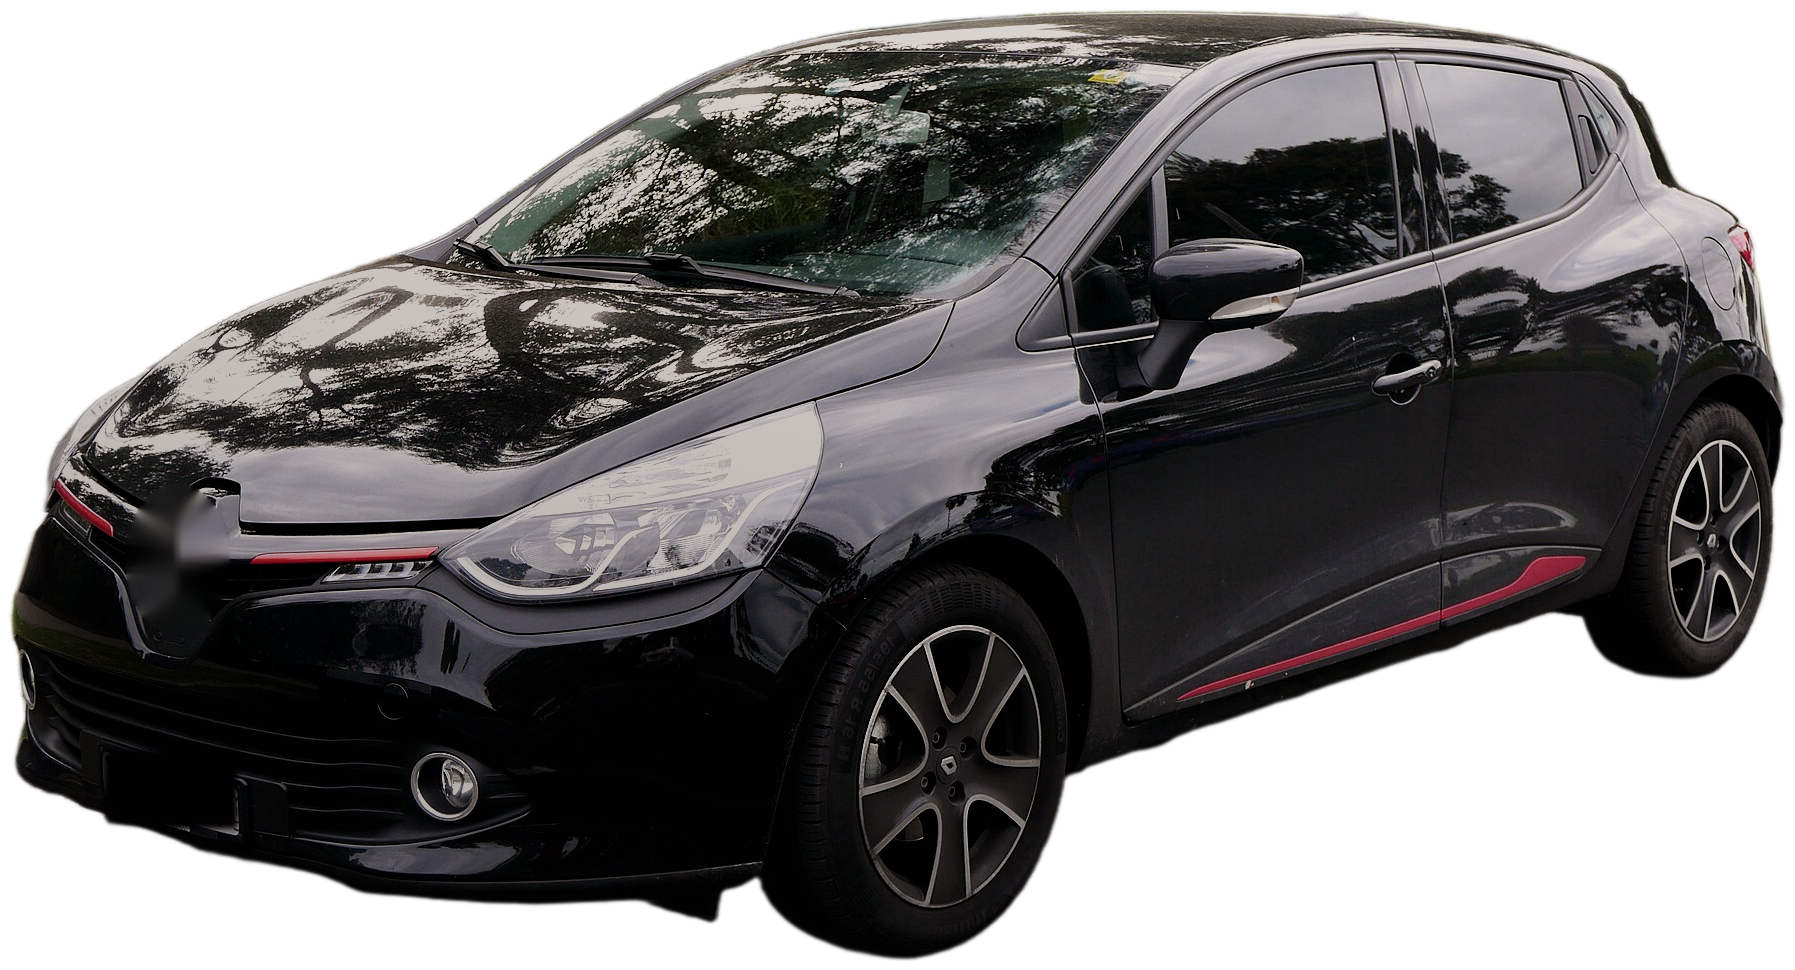
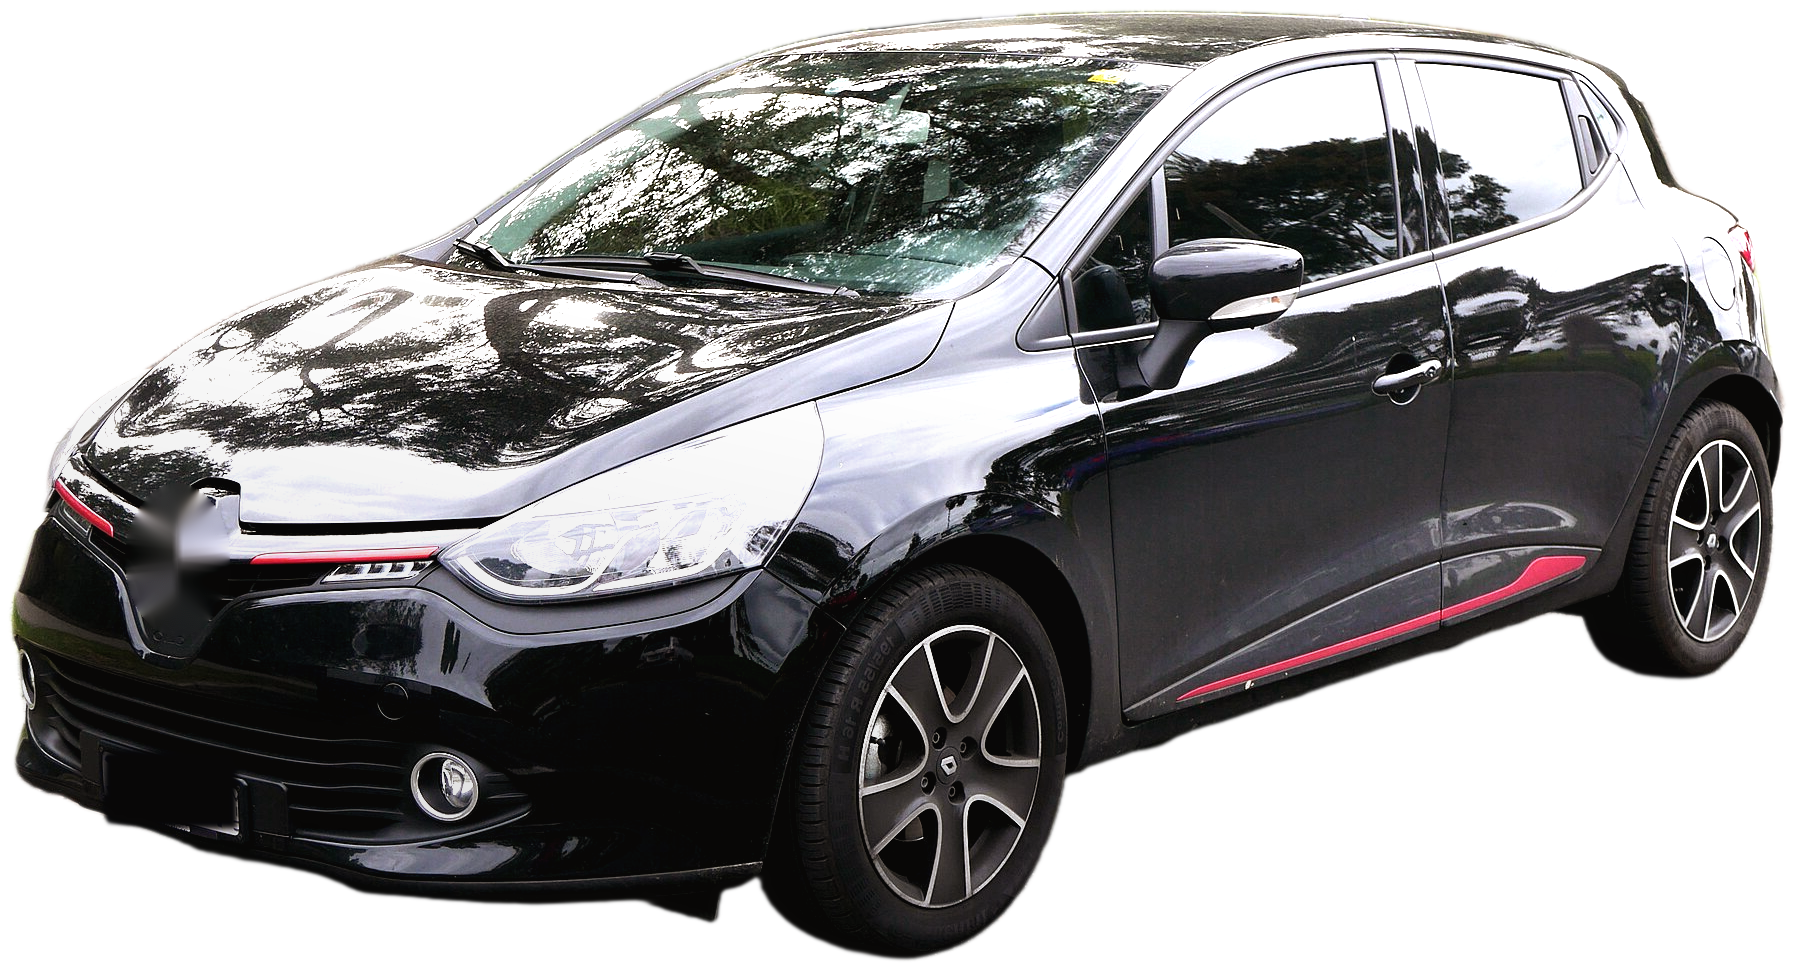
MO8 étape 2 : timeline seconde par seconde, sources vérifiées (distribution par moteur, extension PureTech), images tests n° 4 et n° 2
Claude-Session: https://claude.ai/code/session_01FEy7LKaW7Hm3ZRZRRVomsp

diff --git a/video/film-mo8/da.html b/video/film-mo8/da.html
@@ -125,6 +125,28 @@ html,body{width:1080px;height:1920px;overflow:hidden;background:var(--bg0)}
   </div>
 </section>
 
+<!-- 7 · N° 4 (≈ 9 s) : le piston fissuré -->
+<section class="scene" data-s="7">
+  <div class="no" style="left:286px">N°</div>
+  <div class="flap glass"><span>4</span><i></i></div>
+  <svg class="leads"></svg>
+  <div class="pill glass" data-to="a0" style="left:600px;top:560px"><span class="k">piston</span><span class="v serif">fissuré</span></div>
+  <div class="strip" data-ph="golf" style="top:1110px;height:190px;background-size:cover"><div class="t"><div class="m ext">Golf 6 · 1.4 TSI</div><div class="e">122 · 160 CH · 2008 – 2012</div></div></div>
+  <div class="cost"><span class="j">jusqu'à</span><span class="n ext lit">7 000 €</span></div>
+  <div class="mention">Coûts : ordres de grandeur relevés · presse spécialisée et propriétaires</div>
+</section>
+
+<!-- 8 · N° 2 (≈ 17 s) : la jauge sous le MIN -->
+<section class="scene" data-s="8">
+  <div class="no" style="left:286px">N°</div>
+  <div class="flap glass"><span>2</span><i></i></div>
+  <svg class="leads"></svg>
+  <div class="pill glass" data-to="a0" style="left:520px;top:560px"><span class="k">il boit</span><span class="v serif">son huile</span></div>
+  <div class="strip" data-ph="clio" style="top:1110px;height:190px;background-size:cover"><div class="t"><div class="m ext">Clio 4 · 1.2 TCe</div><div class="e">CAPTUR · MÉGANE 3 · 2012 – 2016</div></div></div>
+  <div class="cost"><span class="j">jusqu'à</span><span class="n ext lit">10 000 €</span></div>
+  <div class="mention">Coûts : ordres de grandeur relevés · presse spécialisée et propriétaires</div>
+</section>
+
 <!-- 6 · PLANCHE DES PIÈCES : toutes sous la même lumière -->
 <section class="scene" data-s="6">
   <div class="abs" style="left:540px;top:250px;transform:translateX(-50%);text-align:center;white-space:nowrap">
@@ -391,7 +413,7 @@ function pistonSet() {
   // fissure lumineuse sur la tête
   const r = rng(11), pts = []; for (let i = 0; i <= 14; i++) { const a = -.5 + i * .07, y = .6 - i * .009 + (r() - .5) * .012; pts.push(new THREE.Vector3(Math.sin(a) * .394, y, Math.cos(a) * .394)); }
   const crack = new THREE.Mesh(new THREE.TubeGeometry(new THREE.CatmullRomCurve3(pts), 80, .006, 6), M.hot); grp.add(crack);
-  shadowAll(grp); crack.castShadow = false; pts.forEach((p, i) => i % 3 || halo(grp, p, .14, .45)); return grp;
+  grp.userData.crack = pts[7].clone(); shadowAll(grp); crack.castShadow = false; pts.forEach((p, i) => i % 3 || halo(grp, p, .14, .45)); return grp;
 }
 
 // durite (nervurée), colliers, embouts alu, fuite de liquide
@@ -551,6 +573,20 @@ if (S === '4') {
   const bs = beltSet(true, true); bs.rotation.y = -.5; world.add(bs);
   frame(new THREE.Vector3(.18, .95, 0), 18.5, 13, 0, 815);
   bs.updateMatrixWorld(true); anchors.a0 = new THREE.Vector3(bs.userData.gap.x - .03, bs.userData.gap.y, .07).applyMatrix4(bs.matrixWorld); anchors.a1 = bs.userData.strainer.clone().applyMatrix4(bs.matrixWorld);
+}
+if (S === '7') {
+  const ps = pistonSet(); ps.position.set(0, 1.12, 0); ps.rotation.y = .5; world.add(ps);
+  frame(new THREE.Vector3(0, .85, 0), 16, 12, 0, 850);
+  ps.updateMatrixWorld(true); anchors.a0 = ps.userData.crack.clone().applyMatrix4(ps.matrixWorld);
+}
+if (S === '8') {
+  const ds = dipstickSet(); ds.scale.setScalar(.9); ds.position.set(-.75, .62, 0); ds.rotation.set(0, -.55, -.22); world.add(ds);
+  const drop = new THREE.Mesh(new THREE.SphereGeometry(.035, 32, 16), M.oil); drop.scale.set(1, 1.6, 1); world.add(drop);
+  const pud = new THREE.Mesh(new THREE.CircleGeometry(.26, 64), M.oil); pud.rotation.x = -Math.PI / 2; pud.scale.set(1.3, .8, 1); world.add(pud);
+  ds.updateMatrixWorld(true); const tip = new THREE.Vector3(1.9, 0, 0).applyMatrix4(ds.matrixWorld);
+  drop.position.set(tip.x, tip.y - .22, tip.z); pud.position.set(tip.x, .006, tip.z);
+  frame(new THREE.Vector3(0, .45, 0), 9, 14, 0, 800);
+  anchors.a0 = new THREE.Vector3(1.86, 0, 0).applyMatrix4(ds.matrixWorld);
 }
 if (S === '6') {
   const parts = [];

diff --git a/video/scripts/photos-mo8.py b/video/scripts/photos-mo8.py
@@ -38,6 +38,7 @@ for k, (flip, zones) in CARS.items():
     f = im.astype(np.float32) / 255
     hsv = cv2.cvtColor(f, cv2.COLOR_BGR2HSV); hsv[..., 1] *= .8; f = cv2.cvtColor(hsv, cv2.COLOR_HSV2BGR)
     f = np.clip((f - .5) * 1.15 + .5, 0, 1) * .78
+    if k == 'clio': f = np.clip(f * 1.6 + .03, 0, 1)                    # voiture noire : on la remonte pour qu'elle se détache du fond
     lum = f.mean(2, keepdims=True); f = f * (np.array([.84, .93, 1.05], np.float32) * (1 - lum) + lum)
     H, W = f.shape[:2]; yy, xx = np.mgrid[0:H, 0:W] / max(H, W)
     f *= (1.08 - .45 * np.clip(yy * .9 + (xx if not flip else 1 - xx) * .2 - .25, 0, 1))[..., None]

diff --git a/video/docs/timeline-mo8.md b/video/docs/timeline-mo8.md
@@ -1,0 +1,148 @@
+# MO8 « Les 5 moteurs » : déroulé seconde par seconde (étape 2)
+
+Brief : `brief-mo8.md` (validé le 7 octobre 2026), DA validée le même jour (`film-mo8/da.html`, planche
+`renders/review/mo8-da-planche.jpg`). 30,0 s, 1080×1920, 60 i/s, en boucle.
+
+Grille : **120 BPM**, un temps toutes les 0,5 s, une mesure toutes les 2 s (15 mesures). Chaque numéro dure deux
+mesures (4 s) et sa palette tombe sur le premier temps. Je recale tout sur la voix à l'étape 4.
+
+## Les sources (vérifiées le 7 octobre 2026)
+
+| N° | Moteur | Distribution | Le défaut retenu | Coût affiché | Sources |
+|---|---|---|---|---|---|
+| 5 | BMW 116i · 1.6 N13 (avec PSA) · 2011-2015 | **chaîne** | la chaîne s'allonge, cliquetis à froid ; cassée, elle emporte le moteur | **jusqu'à 5 000 €** (chaîne à temps : 500 à 1 200 €) | [AutoCopilot](https://autocopilot.fr/modeles/bmw-serie-1-f20), [ma-bmw.com](https://ma-bmw.com/forum/viewtopic.php?p=958620) |
+| 4 | Golf 6 · 1.4 TSI 122 / 160 ch (EA111) · 2008-2012 | **chaîne** (la courroie n'arrive qu'avec l'EA211, sur la Golf 7) | tendeur et chaîne qui s'allongent (60 000 à 100 000 km) ; pistons fragiles sur le 160 ch | **jusqu'à 7 000 €** (chaîne seule : 1 500 à 2 500 €) | [AutoCopilot EA111](https://autocopilot.fr/motorisations/1-4-tsi-ea111), [Fiches-auto](https://www.fiches-auto.fr/avis-volkswagen/avis-unique-264-70473-volkswagen-scirocco-14-tsi-160-ch.php) |
+| 3 | Ford 1.0 EcoBoost · Fiesta, Focus · 2011-2018 | **courroie dans l'huile** | durites de refroidissement qui fissurent (surtout 2011-2013), surchauffe, joint de culasse | **jusqu'à 7 000 €** (moteur, témoignages) ; Presse-Citron relève 10 936 € | [Fiches-auto](https://www.fiches-auto.fr/articles-auto/fiabilite-moteurs-essence/s-2306-fiabilite-du-10-ecoboost.php), [Presse-Citron](https://www.presse-citron.net/10-936-euros-reparations-moteur-ecoboost-ford-nouveau-scandale-casse-puretech/), [L'argus (forum, rappel)](https://www.largus.fr/forum-auto/discussion-sur-l-automobile/rappel-ford-focus-1-0-ecoboost-risque-de-surchauffe/314429.html) |
+| 2 | Clio 4 · Captur · Mégane 3 · 1.2 TCe 115/120 (H5Ft) · moteurs produits du 1er octobre 2012 au 20 juillet 2016 | **chaîne** (tendeur hydraulique : sans huile, il lâche aussi) | consommation d'huile, parfois plus d'un litre aux 1 000 km ; soupapes abîmées, casse | **jusqu'à 10 000 €** | [UFC-Que Choisir](https://www.quechoisir.org/actualite-moteur-1-2-renault-400-000-voitures-en-danger-n67215/), [Fiches-auto](https://www.fiches-auto.fr/articles-auto/enquete-fiabilite/s-2187-problemes-en-serie-sur-les-moteurs-12-tce-renault.php) |
+| 1 | 208 · 2008 · 308 · 1.2 PureTech (EB2) · 2013 - ≈ 2022 | **courroie dans l'huile** | la courroie se désagrège, ses débris bouchent la crépine de la pompe à huile | courroie changée : **≈ 500 €** ; sinon, le moteur | [L'argus](https://www.largus.fr/actualite-automobile/moteur-1-2-puretech-quels-sont-les-vrais-problemes-10653953.html), [Mecazen](https://mecazen.fr/carnet-entretien-auto/peugeot/208-2/probleme-de-courroie-distribution), [GoodMecano](https://www.goodmecano.com/reparation-automobile-par-marque/peugeot/208/remplacement-kit-distribution-et-pompe-a-eau-28) |
+
+**La chute (le six).** La facture est un exemple, cohérent avec les prix relevés :
+
+- kit courroie et pompe à eau : 322 € ;
+- main-d'œuvre : 190 €, soit environ 3 h ;
+- total : 512 €.
+
+Pour comparer, Mecazen relève 363 à 625 € pour la courroie, et GoodMecano 180 à 450 € de main-d'œuvre pour 3 à 5 h. L'écran porte la mention « Exemple » sur la facture.
+
+Bon à savoir, hors voix : depuis le 18 mars 2024, Stellantis prend en charge les casses de courroie du 1.2 PureTech
+jusqu'à 10 ans ou 175 000 km, si le plan d'entretien a été respecté
+([caroom](https://www.caroom.fr/blog/stellantis-propose-une-extension-de-garantie-pour-le-problematique-moteur-1-2-puretech-25285.html),
+[L'argus](https://www.largus.fr/actualite-automobile/moteur-1-2-puretech-stellantis-lancera-bientot-une-plate-forme-d-indemnisation-30037499.html)).
+Ça renforce la chute : une 208 avec ses factures d'entretien est couverte, et tout le monde la fuit quand même. Je ne
+le mets pas dans la voix, les conditions exactes ne sont pas publiées.
+
+Mention à l'écran sur chaque numéro : « Coûts : ordres de grandeur relevés · presse spécialisée et propriétaires ».
+
+## Les photos des voitures
+
+Vraies photos des versions exactes, Wikimedia Commons ; auteurs et licences dans `assets/photos-mo8/CREDITS.tsv`.
+`scripts/photos-mo8.py` :
+
+- efface les logos et remplace les plaques par des plaques vierges ;
+- retourne la Clio et la 208 pour que les cinq regardent à gauche ;
+- détoure les voitures (BiRefNet) ;
+- étalonne les photos dans la charte.
+
+| N° | Photo | Licence |
+|---|---|---|
+| 5 | BMW 116i (F20) avant restylage | CC0 |
+| 4 | VW Golf VI 1.4 TSI 160 ch | CC BY 3.0, Thomas doerfer : **crédit dans la légende** |
+| 3 | Ford Fiesta VII restylée 1.0 EcoBoost | CC BY-SA 3.0 de, M 93 : **crédit dans la légende** |
+| 2 | Renault Clio IV | domaine public |
+| 1 | Peugeot 208 (première génération), 2014 | domaine public |
+
+Légende du post : « Photos : Thomas doerfer, M 93 / Wikimedia Commons ».
+
+## La voix (≈ 69 mots, prise à l'étape 4)
+
+Simon (`mvhJVdVoTWVUtL4keT7W`), eleven_v3, ton « liste de pro », sec. Version resserrée du brief (82 → 69 mots) pour
+tenir 28,5 s avec la respiration. Orthographe pour la synthèse entre crochets.
+
+```
+ 0,1  Cinq voitures à ne jamais acheter en achat-revente.
+ 2,0  Enfin… pas la voiture. Le moteur.
+ 4,1  Cinq. BMW 116i [cent seize i] : la chaîne s'allonge.
+ 8,1  Quatre. Golf 6, 1.4 TSI [un-quatre T-S-I] : chaîne et pistons.
+12,1  Trois. Le 1.0 EcoBoost [un litre EcoBoost] : il chauffe.
+16,1  Deux. Clio 4, 1.2 TCe [un-deux T-C-E] : il boit son huile.
+20,1  Et numéro un : le 1.2 PureTech [un-deux PureTech]. Sa courroie baigne dans l'huile.
+24,2  Le six ? La même 208, courroie changée : cinq cents euros.
+26,9  Tout le monde la fuit. Toi, tu l'achètes.
+```
+
+Ouverture B (même corps) : « Cinq moteurs qui peuvent te coûter jusqu'à dix mille euros. Tu les croises sur toutes les
+annonces. »
+
+## La grammaire d'un numéro (4 s, deux mesures)
+
+Les cinq numéros suivent le même schéma ; seuls la pièce et le geste changent. Temps relatifs au début du numéro :
+
+| t | Ce qui se passe |
+|---|---|
+| +0,0 | La palette tombe sur le chiffre (premier temps). La voiture détourée glisse de la droite au centre ; son reflet glisse sur le sol. |
+| +0,6 | Le trait de lumière balaie le capot de la voiture. Derrière lui, la carrosserie devient transparente et la pièce s'allume dans le compartiment moteur. |
+| +1,0 | La voiture descend, rétrécit et se range dans le bandeau du bas (nom, moteur, années). La pièce monte et grandit au centre, posée sur le sol. |
+| +1,5 | Le défaut se joue (voir le déroulé). La pastille de verre sort de la pièce, reliée par le fil de lumière. |
+| +2,0 | Le coût roule au compteur, premier temps de la deuxième mesure ; la mention s'écrit dessous. |
+| +3,4 | Sortie : la pièce redescend dans le sol, le bandeau glisse vers la gauche, le chiffre suivant se prépare sur la palette. |
+
+La caméra ne coupe jamais : elle dérive lentement de gauche à droite sur tout le film (la même focale partout), et
+chaque nouvelle pièce entre dans le champ par la droite, là où la précédente sort.
+
+## Le déroulé
+
+| t (s) | Image | Texte à l'écran | Voix | Son |
+|---|---|---|---|---|
+| 0,0 | **Image 0 déjà composée** : « 5 voitures à fuir » en haut, les cinq bandeaux (phares des cinq voitures) numérotés 5 → 1. | 5 voitures à fuir | « Cinq voitures à ne jamais acheter en achat-revente. » | musique dès l'image 0, pulsation grave |
+| 0,5 | Les bandeaux entrent un par un, de 5 à 1, sur chaque temps ; les phares s'allument en passant sous le trait de lumière. | | | un « tic » de phare par bandeau |
+| 2,0 | Le titre devient « Pas la voiture. » et « voiture » se barre d'un trait orange ; « Le *moteur.* » s'écrit dessous en Fraunces, à la lumière. Sous chaque bandeau, un point orange s'allume à l'endroit du moteur. | Pas la ~~voiture~~. Le *moteur*. | « Enfin… pas la voiture. Le moteur. » | trait qui raye, accord sur « moteur » |
+| 3,6 | Les bandeaux se replient vers le haut ; le n° 5 reste et s'ouvre. | | | souffle |
+| 4,0 | **N° 5** · palette 5. La BMW 116i blanche entre. | N° 5 | « Cinq. BMW 116i : la chaîne s'allonge. » | coup de palette, impact grave |
+| 5,0 | La chaîne et ses deux pignons montent au centre. Le brin gauche se détend, bat, claque contre le patin. | la chaîne *s'allonge* | | cliquetis de chaîne, claquement sec |
+| 6,0 | Compteur : 0 → 5 000 €. | jusqu'à 5 000 € | | rouleau du compteur |
+| 8,0 | **N° 4** · palette 4. La Golf VI grise entre. | N° 4 | « Quatre. Golf 6, 1.4 TSI : chaîne et pistons. » | coup de palette |
+| 9,0 | La chaîne passe et laisse place au piston : une fissure lumineuse court sur la tête, entre les segments. | piston *fissuré* | | craquement métallique |
+| 10,0 | Compteur : 0 → 7 000 €. | jusqu'à 7 000 € | | |
+| 12,0 | **N° 3** · palette 3. La Fiesta bleue entre. | N° 3 | « Trois. Le 1.0 EcoBoost : il chauffe. » | coup de palette |
+| 13,0 | La durite nervurée et le vrai cadran de température : l'aiguille monte dans le rouge, une goutte orange perle au collier et tombe. | il *chauffe* | | sifflement de vapeur, goutte |
+| 14,0 | Compteur : 0 → 7 000 €. | jusqu'à 7 000 € | | |
+| 16,0 | **N° 2** · palette 2. La Clio IV noire entre. | N° 2 | « Deux. Clio 4, 1.2 TCe : il boit son huile. » | coup de palette |
+| 17,0 | La jauge d'huile sort du moteur, en diagonale : le film d'huile est sous le MIN, une goutte tombe. | il boit *son huile* | | glissement de la jauge, goutte |
+| 18,0 | Compteur : 0 → 10 000 €, le plus haut. | jusqu'à 10 000 € | | le compteur accélère |
+| 20,0 | **N° 1** · palette 1, plus lente (elle hésite d'un temps). La 208 grise entre. | N° 1 | « Et numéro un : le 1.2 PureTech. Sa courroie baigne dans l'huile. » | silence d'un temps, puis impact le plus fort |
+| 21,0 | Le bac d'huile en coupe : la courroie crantée tourne, des dents manquent ; les morceaux filent vers la crépine qui se bouche. | la courroie *s'effrite* · crépine *bouchée* | | frottement de courroie, bulles |
+| 22,5 | Le coût s'écrit : « courroie ≈ 500 € ». La musique se tend (filtre qui s'ouvre). | courroie ≈ 500 € | | montée |
+| 24,0 | **Chute** · la palette passe à **6**. Arrêt net de la musique. | N° 6 | « Le six ? » | arrêt de bande |
+| 24,5 | La même 208, entière, posée sur le sol avec son reflet. La facture de verre se pose sous elle : kit, main-d'œuvre, « Courroie changée · 512 € ». | Facture · Exemple | « La même 208, courroie changée : cinq cents euros. » | papier, deux coches |
+| 26,8 | Les quatre autres voitures entrent sur les côtés et s'écartent d'elle, floues. | | « Tout le monde la fuit. » | souffle de passage |
+| 27,8 | Le tampon orange « *affaire* » s'imprime sur la facture. La musique repart. | *affaire* | « Toi, tu l'achètes. » | coup de tampon sur le premier temps, drop |
+| 28,6 | La 208 recule et se range dans un bandeau ; les quatre autres reviennent en bandeaux au-dessus d'elle : on retrouve l'image 0. | 5 voitures à fuir | | souffle inversé |
+| 30,0 | Image 0. | | (enchaîne sur « Cinq voitures… ») | boucle |
+
+## Le son (prévu pour l'étape 5)
+
+- Musique : nouveau passage à 120 BPM. Le filtre s'ouvre du n° 5 au n° 1, avec un arrêt net sur « Le six ? » et un drop sur le tampon.
+- Un coup de palette et un impact grave par numéro, sur le premier temps.
+- Un son par défaut, un seul à la fois :
+  - claquement de chaîne ;
+  - craquement de piston ;
+  - vapeur et goutte ;
+  - jauge et goutte d'huile ;
+  - frottement de courroie et bulles.
+
+  Je les cherche dans la banque Mixkit (`scripts/mixkit.py`) à l'étape 5.
+- Voix devant, −14 LUFS, plafond −3,5 dBTP avant encodage, contrôle sur haut-parleur de téléphone.
+
+## Images tests
+
+`film-mo8/da.html?s=<n>`, rendues par `scripts/stills.mjs` dans `renders/review/mo8-da-<n>.png` :
+
+1. t ≈ 2,6 s : hook, cinq bandeaux, « Pas la voiture. Le moteur. » (`mo8-da-1.png`).
+2. t ≈ 5,6 s : n° 5, chaîne et pignons, BMW 116i, 5 000 € (`mo8-da-2.png`).
+3. t ≈ 9,5 s : n° 4, piston fissuré, Golf 6 1.4 TSI, 7 000 € (`mo8-da-7.png`).
+4. t ≈ 13,5 s : n° 3, cadran de température et durite qui fuit, 1.0 EcoBoost, 7 000 € (`mo8-da-3.png`).
+5. t ≈ 17,5 s : n° 2, jauge d'huile sous le MIN, Clio 4 1.2 TCe, 10 000 € (`mo8-da-8.png`).
+6. t ≈ 21,5 s : n° 1, courroie dans l'huile et crépine bouchée, 1.2 PureTech, ≈ 500 € (`mo8-da-4.png`).
+7. t ≈ 27,9 s : la chute, la 208, la facture, « affaire » (`mo8-da-5.png`).
+
+Planche : `renders/review/mo8-timeline-planche.jpg` (les sept images dans l'ordre du film).
